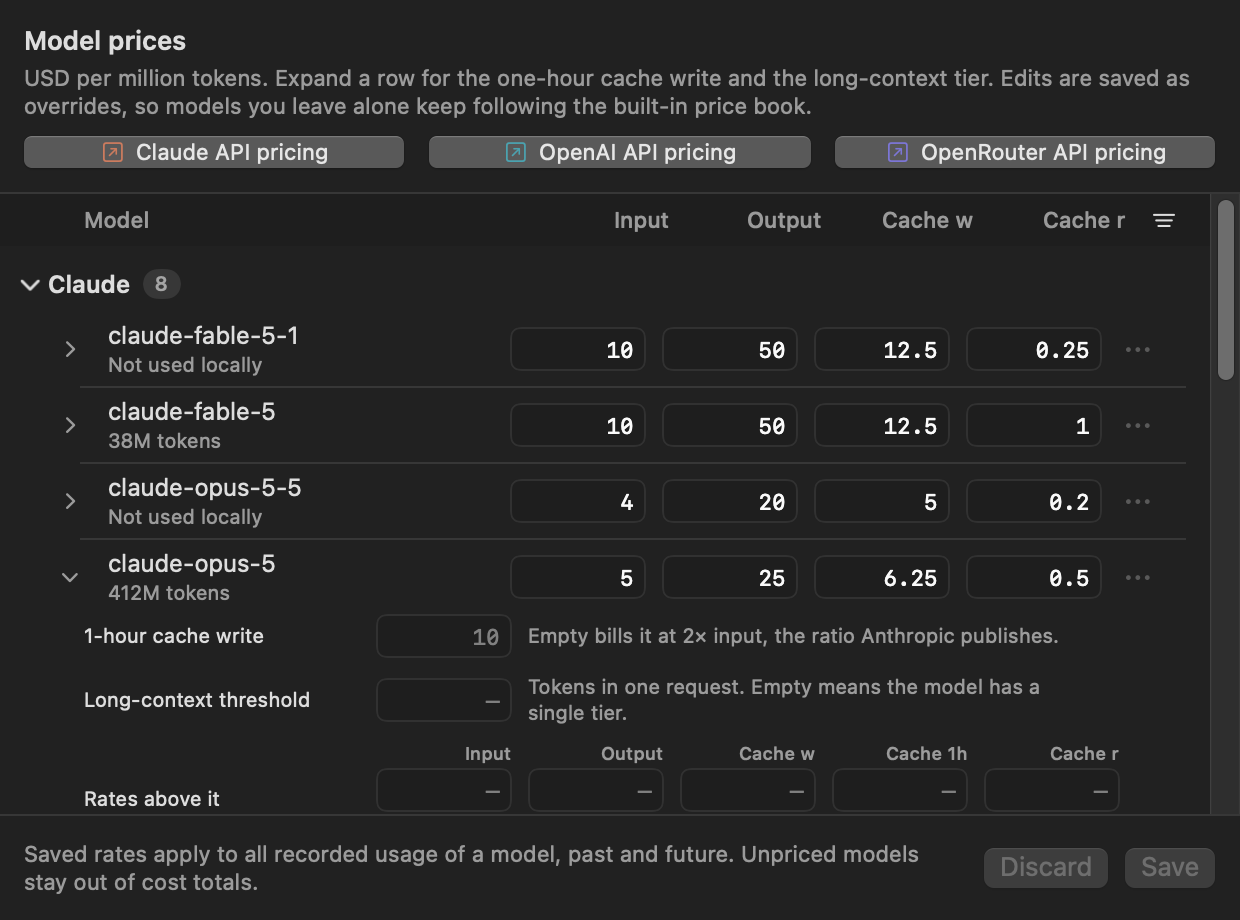
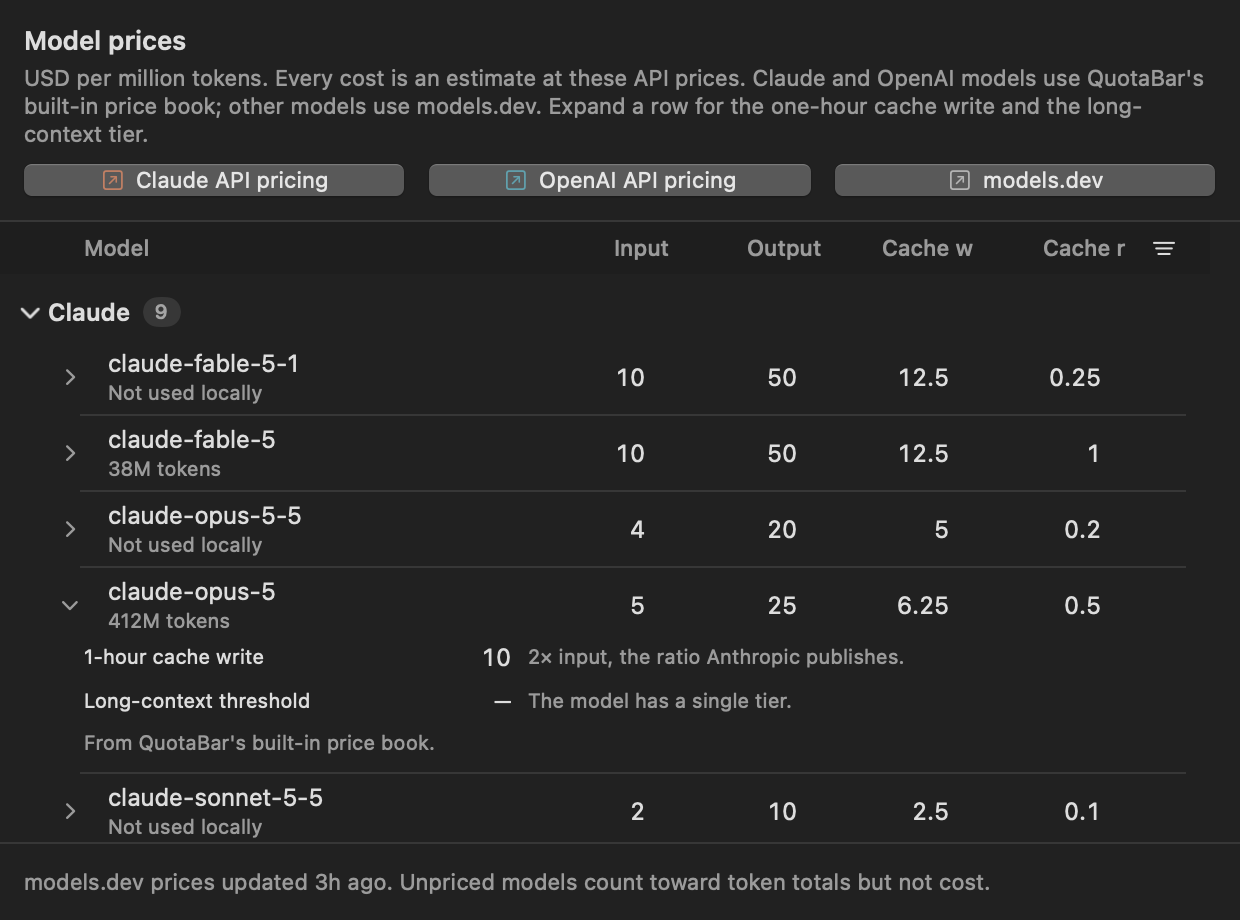
docs(pricing): document models.dev third-party rates and the read-only pricing table
Add ADR 0002, which partly supersedes ADR 0001, and update the glossary,
price book guide, export doc, READMEs, and settings screenshots.

diff --git a/README.md b/README.md
@@ -11,7 +11,7 @@
 
 Check Codex and Claude quota, reset times, local token usage, and estimated API cost from the macOS menu bar.
 
-[Install](#install) · [First launch](#first-launch) · [Quota](#how-quota-tracking-works) · [Cost](#how-cost-tracking-works) · [Reports](#exporting-a-usage-report) · [Pricing](#editing-model-prices) · [Development](#build-and-develop) · [Troubleshooting](#troubleshooting)
+[Install](#install) · [First launch](#first-launch) · [Quota](#how-quota-tracking-works) · [Cost](#how-cost-tracking-works) · [Reports](#exporting-a-usage-report) · [Pricing](#model-prices) · [Development](#build-and-develop) · [Troubleshooting](#troubleshooting)
 
 Screenshots use sample data. The app is in English; exported reports support Chinese and English. View the card in [dark](docs/images/interactions/main-dark.png) or [light](docs/images/interactions/main-light.png) appearance.
 
@@ -19,7 +19,7 @@ Screenshots use sample data. The app is in English; exported reports support Chi
 
 - Track session and weekly quota, reset times, usage pace, and Codex credits. Failed refreshes keep the last good reading.
 - View tokens and estimated API cost by day and model. Include OpenCode and Pi Agent OAuth usage that matches your Codex account.
-- Estimate Standard, Fast, and long-context costs with the bundled price book. Edit Standard rates in Settings.
+- Estimate Standard, Fast, and long-context costs: Claude and OpenAI models from the bundled price book, other models such as DeepSeek or GLM from models.dev.
 - Export the last 7 or 30 days of saved usage as an offline HTML report with Chinese and English views.
 
 ## Install
@@ -78,7 +78,7 @@ codex login
 claude
 ```
 
-Open QuotaBar, click its menu bar icon, and select Claude or Codex. Open [Settings](docs/images/settings-general.png) to choose a refresh interval and the provider the menu bar shows, or to [edit model prices](#editing-model-prices).
+Open QuotaBar, click its menu bar icon, and select Claude or Codex. Open [Settings](docs/images/settings-general.png) to choose a refresh interval, the provider the menu bar shows, and whether models.dev prices other models, or to [see model prices](#model-prices).
 
 If a provider is not signed in, choose **Copy command**, run it in Terminal, then return and choose **Check sign-in**.
 
@@ -138,7 +138,7 @@ The icon is Material Design Icons' `robot-excited`. The card scrolls when needed
 | ⌘1 / ⌘2 | Show Claude / Codex |
 | ⌘R | Refresh or check sign-in, when available |
 | ⌘, | Open settings |
-| ⌘Q | Quit, with a prompt for unsaved price edits |
+| ⌘Q | Quit |
 | Esc | Close the card |
 
 ## How cost tracking works
@@ -160,7 +160,7 @@ The chart distinguishes zero usage from missing data:
 | **—**, **Unpriced** | Usage is recorded, but no rate applies. Cost view shows a dashed stub. |
 | **Partial estimate** | The amount includes priced usage only; unpriced usage is excluded. |
 
-For missing Standard rates, use **Settings → Pricing**. Fast usage needs a multiplier in the bundled price book and cannot be priced with a manual override.
+**Settings → Pricing** lists every model with its rates and where they come from. Unpriced models are local or free models, new Claude or OpenAI models the price book does not list yet, and Fast usage of models without a Fast multiplier.
 
 ### Data sources
 
@@ -190,12 +190,13 @@ Scanner upgrades preserve recorded history instead of rebuilding it from source 
 
 ### Pricing rules
 
-- Standard usage uses your saved override, if any. Otherwise, it uses the bundled [price book](Sources/QuotaBarCore/Resources/Pricing/price-book.json).
-- The price book stores rates in dated periods. Each day's usage uses that day's rates. An override replaces Standard rates for every recorded day of its model.
-- Fast usage (Codex priority tier and Claude Fast mode) multiplies the price book's rates by that period's Fast multiplier, including cache rates. It ignores overrides. Without a Fast multiplier, usage stays unpriced. Claude usage scanned before QuotaBar recorded Fast mode stays Standard.
+- Every cost is an estimate at API list prices.
+- Claude and OpenAI models use the bundled [price book](Sources/QuotaBarCore/Resources/Pricing/price-book.json), which stores rates in dated periods. Each day's usage uses that day's rates.
+- Other models use rates from [models.dev](https://models.dev): the model maker's own price when it lists one, otherwise the middle price across providers. QuotaBar keeps them in a local cache and refreshes it at most once a day. When a price changes, earlier days keep the old rates. Models listed only for free stay unpriced. Turn this off in **Settings → General**.
+- Fast usage (Codex priority tier and Claude Fast mode) multiplies the price book's rates by that period's Fast multiplier, including cache rates. Without a Fast multiplier, and for models priced from models.dev, Fast usage stays unpriced. Claude usage scanned before QuotaBar recorded Fast mode stays Standard.
 - Long-context rates apply when a request's input and cache tokens exceed its threshold. QuotaBar records that classification during scanning; later threshold changes do not reclassify saved usage.
 
-Provider billing rules, cache accounting, and price changes can make estimates differ from an invoice. See [Maintaining the price book](docs/pricing.md) to update bundled rates.
+Provider billing rules, cache accounting, and price changes can make estimates differ from an invoice. See [Maintaining the price book](docs/pricing.md) to update bundled rates and for how models.dev rates are chosen.
 
 ## Exporting a usage report
 
@@ -210,35 +211,19 @@ Provider billing rules, cache accounting, and price changes can make estimates d
 
 The report is a single offline HTML file with a Chinese/English switch. It includes saved Codex and Claude usage, plus eligible OpenCode and Pi Agent usage, for the selected period. Charts and expandable tables show daily usage, cost by model, and token and cache composition.
 
-Export reads saved data without refreshing quota, rescanning logs, or making network requests. It uses the same pricing rules as the card and marks unpriced usage. Totals include cache costs; the report lists cache token counts without a separate cache cost.
+Export reads saved data and cached rates without refreshing quota, rescanning logs, or making network requests. It uses the same pricing rules as the card and marks unpriced usage. Totals include cache costs; the report lists cache token counts without a separate cache cost.
 
 The file includes the period, capture time, timezone, sources, models, token counts, and estimated costs. It excludes prompts, responses, reasoning text, credentials, and account IDs. See [Usage report export](docs/usage-report-export.md) for the full data format and checks.
 
-## Editing model prices
+## Model prices
 
-Open **Settings → Pricing** to override Standard rates in USD per million tokens. Expand a model row for one-hour cache write rates, the long-context threshold, and rates above it.
-
-The table lists supported API models and unpriced models found locally. Click a column heading to sort; reset the order to restore the API model list and sort **Others** by usage.
+Open **Settings → Pricing** to see the rates every estimate uses, in USD per million tokens. Rows are grouped into **Claude**, **Codex**, and **Others**; the first two come from the price book, and **Others** lists every other model found locally, priced from models.dev or unpriced. Expand a row for the one-hour cache write rate, the long-context threshold, and the rates above it. Click a column heading to sort; reset the order to restore the API model list and sort **Others** by usage.
 
 <p align="center">
-  <img src="docs/images/settings-pricing.png" width="620" alt="Pricing settings with editable rates, expanded long-context fields, and per-model action menus">
+  <img src="docs/images/settings-pricing.png" width="620" alt="Read-only pricing table grouped by Claude, Codex, and Others, with one row expanded to show its long-context rates">
 </p>
 
-- Rates must be finite and nonnegative. A long-context threshold must be a positive whole token count. You must set it before saving any rates above the threshold. Invalid fields disable **Save**.
-- **Save** shows progress and its result. Drafts survive failed saves, tab switches, and closing Settings while the app is running. **Discard** restores the last saved rates.
-- To remove an override, choose **Restore default rate** or **Clear custom rate** in the model's **…** menu, then save.
-- Quitting with a valid draft offers **Save**, **Discard**, or **Cancel**. Invalid drafts must be corrected before saving.
-
-<details>
-<summary>Invalid price example</summary>
-
-<p align="center">
-  <img src="docs/images/interactions/pricing-invalid.png" width="620" alt="A nonnumeric input rate with an inline error, an error summary, and Save disabled">
-</p>
-
-</details>
-
-Saving reprices the model's recorded Standard usage, including previously unpriced usage. Restoring the default returns it to the price book's dated rates. Fast usage keeps using the price book. Threshold changes affect only newly scanned requests.
+Rates cannot be edited. To change a Claude or OpenAI rate, update the price book (see [Maintaining the price book](docs/pricing.md)). Earlier versions saved custom rates in `pricing-overrides.json`; this version deletes that file on launch.
 
 ## Privacy and network access
 
@@ -251,14 +236,14 @@ QuotaBar uses timestamps, models, token counts, record IDs, and account IDs need
 
 ```text
 ~/Library/Application Support/QuotaBar/usage-history.json
-~/Library/Application Support/QuotaBar/pricing-overrides.json
+~/Library/Application Support/QuotaBar/third-party-rates.json
 ~/Library/Application Support/QuotaBar/cost-usage/cost-usage.sqlite
 ~/Library/Preferences/com.quotabar.app.plist
 ```
 
 </details>
 
-Codex quota requests use the `chatgpt_base_url` in `$CODEX_HOME/config.toml`, if set, or the default ChatGPT endpoint. QuotaBar also contacts `auth.openai.com` to refresh Codex tokens, and `api.anthropic.com` for Claude quota. Model prices ship with the app and are not fetched. It does not send local session records to these services.
+Codex quota requests use the `chatgpt_base_url` in `$CODEX_HOME/config.toml`, if set, or the default ChatGPT endpoint. QuotaBar also contacts `auth.openai.com` to refresh Codex tokens, and `api.anthropic.com` for Claude quota. Claude and OpenAI prices ship with the app. While **Price other models with models.dev** is on, QuotaBar downloads `https://models.dev/api.json` at most once a day; the request carries no usage or account data. It does not send local session records to these services.
 
 ## Build and develop
 
@@ -337,9 +322,8 @@ The workflow runs tests, packages an `arm64` ZIP, and verifies its signature, ve
 | Provider is not signed in | Copy the command in the card, complete the CLI login, then choose **Check sign-in**. Use `make probe` for the raw error. |
 | Data is stale or refresh returns HTTP 429 | Read the warning above the saved quota. Wait for the retry countdown, then retry; a server limit may last longer than one minute. |
 | Local scan failed | Read the local usage error and choose **Retry local scan**. Confirm the CLI writes session logs to the paths above. |
-| Cost shows Unpriced or Partial estimate | Add missing Standard rates in **Settings → Pricing**. Fast usage needs a multiplier in the bundled price book. |
+| Cost shows Unpriced or Partial estimate | Check the model in **Settings → Pricing**. Local, free, and Fast third-party usage stays unpriced. For other models, confirm models.dev pricing is on in **Settings → General** and that models.dev lists the model. |
 | A date shows Not scanned yet | Wait for the local scan to finish. This means the date is not covered yet, rather than zero usage. |
-| Price changes cannot be saved | Correct the marked fields. If saving failed, the draft remains available to retry or discard. |
 | OpenCode usage is missing | Confirm OpenCode uses `openai` OAuth with the same account as Codex. Check **Settings → Pricing** for database or authentication errors. |
 | Pi Agent usage is missing | Confirm Pi Agent uses `/login openai-codex` with the same account as Codex. Check **Settings → Pricing** for session or authentication errors. |
 

diff --git a/docs/adr/0002-price-third-party-models-from-models-dev.md b/docs/adr/0002-price-third-party-models-from-models-dev.md
@@ -1,0 +1,40 @@
+# Price third-party models from models.dev and drop overrides
+
+This partly supersedes [ADR 0001](0001-derive-cost-from-a-dated-price-book.md). Cost is still derived from stored tokens whenever usage is read, and the price book still prices Claude and OpenAI models. What changes is how other models get a price, and the user's overrides go away.
+
+Codex and Claude Code are often pointed at other vendors' models, such as DeepSeek, GLM, Kimi, or MiMo. On one real database those models made up more than 1.3B tokens, and every one of them was unpriced. The book cannot keep up with that many vendors by hand, and overrides only helped users who typed the rates in themselves.
+
+## Decision
+
+- **Every cost is an estimate at API list prices.** No source is treated as authoritative. The book is not "exact" and models.dev is not "approximate"; they just cover different models.
+- **The price book covers Claude and OpenAI models only, kept by hand.** A model the book lists is priced from the book on every day, even when models.dev also lists it. models.dev never prices a name that contains `claude` or `gpt-`, starts with `chatgpt-`, `codex-`, `o<digit>`, or a vendor prefix such as `openai-` or `us.anthropic.`, or whose `canonical_model_id` belongs to `openai` or `anthropic`. This holds even before the book lists a new model of theirs.
+- **Every other model is priced from models.dev**, through a local cache in `~/Library/Application Support/QuotaBar/third-party-rates.json`:
+  - The app downloads `models.dev/api.json` at most once a day, alongside a cost refresh, without holding the scan up. After a failed download it waits an hour before trying again, and the cache stays as it was.
+  - models.dev lists a model under every provider that serves it. When the model's maker has its own listing, which `canonical_model_id` names, the maker's price is used. Otherwise the middle price of all listings is used, so one reseller's discount or markup does not set the estimate.
+  - A model listed only at zero is left out, so its usage stays unpriced rather than costing nothing. Local and free models therefore stay unpriced.
+  - Rates above 200K tokens (`context_over_200k`) become the Long-context tier. models.dev's other context tiers are not read. Because 200K is the only threshold models.dev describes, a third-party request is classified against it at scan time whether or not its rates have been downloaded; a model without long-context rates bills that tier at its base rates.
+  - models.dev has no Fast tier, so Fast usage of a third-party model stays unpriced.
+- **History comes from the cache.** models.dev publishes today's rates only. When a fetch sees a model's rates change, the cache opens a new period starting that day. The rates first seen cover every earlier day, and a model models.dev stops listing keeps its last rates. This is less precise than the book's periods, which is acceptable for an estimate.
+- **The download can be turned off.** "Price other models with models.dev" in Settings → General is on by default. Turning it off makes third-party usage unpriced and stops the download. It keeps the cache.
+- **Overrides are removed.** The pricing settings become a read-only table showing each model's rates and where they come from. On launch the app deletes the `pricing-overrides.json` an earlier version wrote.
+- **Agent-reported cost is not read.** OpenCode and Pi Agent store a cost per message, but QuotaBar only records their OpenAI usage, which the book already prices, and that cost is zero under OAuth subscriptions. Reading third-party usage from those agents would need its own decision about which provider it counts toward.
+
+## Why ADR 0001's objections no longer apply
+
+- **The broken parser.** ADR 0001's catalog expected a `providers` key that `api.json` does not have. The new parser reads the top-level provider map and is tested against a fixture with the real shape.
+- **Reseller prices.** Preferring the maker's own listing, and otherwise taking the middle price, keeps one reseller from setting the price.
+- **The 200K vs 272K threshold.** That mistake came from letting models.dev price OpenAI models. It no longer prices any Claude or OpenAI model.
+- **An unreviewed source rewriting history.** Costs are still derived at read time, but the cache only ever adds periods. A model's past days keep their rates even when today's fetch disagrees.
+
+## Considered options
+
+- **Keep overrides as a top layer.** Users would still have to find and type in every third-party rate. With models.dev covering those models, overrides mostly added a second way to be wrong. Removing them also removes the editor, its validation, and the quit-time save prompt.
+- **Read agent-reported cost before models.dev.** Agent cost is a good source in principle, but under the current scope it never applies (see above).
+- **Fetch models.dev without a local cache.** Every price change would then reprice all past usage, and the app would have nothing to fall back on offline.
+
+## Consequences
+
+- The app now makes one network request of its own, to `models.dev`, at most once a day while the setting is on.
+- A third-party model's price can change without a release, and a past day keeps whatever rates this machine had seen for it on that day. Two machines can therefore disagree about the same day if they fetched at different times.
+- A usage day before a machine's first fetch is priced at the first rates that machine saw.
+- The Long-context tier of third-party usage is still decided at scan time, but against the fixed 200K threshold, so it does not depend on when rates were fetched. Usage scanned by an earlier version stays in the base tier.

diff --git a/docs/pricing.md b/docs/pricing.md
@@ -1,6 +1,6 @@
 # Maintaining the price book
 
-Every cost QuotaBar shows comes from [`price-book.json`](../Sources/QuotaBarCore/Resources/Pricing/price-book.json) plus whatever the user has overridden in **Settings → Pricing**. Cost is computed from stored tokens each time it is read, so editing the book reprices recorded usage as soon as the new build runs. [ADR 0001](adr/0001-derive-cost-from-a-dated-price-book.md) explains why.
+Claude and OpenAI models are priced from [`price-book.json`](../Sources/QuotaBarCore/Resources/Pricing/price-book.json), kept by hand. Every other model is priced from models.dev through a local cache (see [Third-party models](#third-party-models)). Cost is computed from stored tokens each time it is read, so editing the book reprices recorded usage as soon as the new build runs. [ADR 0001](adr/0001-derive-cost-from-a-dated-price-book.md) and [ADR 0002](adr/0002-price-third-party-models-from-models-dev.md) explain why.
 
 ## Layout
 
@@ -32,7 +32,7 @@ Every cost QuotaBar shows comes from [`price-book.json`](../Sources/QuotaBarCore
 }
 ```
 
-Providers are `codex` (OpenAI models, including OpenCode and Pi Agent usage) and `claude`.
+Providers are `codex` (OpenAI models, including OpenCode and Pi Agent usage) and `claude`. Do not add other vendors' models here: models.dev prices them, and a model the book lists is never priced from models.dev.
 
 A model has these keys:
 
@@ -45,7 +45,7 @@ A model has these keys:
 A period has these keys:
 
 - `from` is the first local day (`yyyy-MM-dd`) the rates apply to. The first period has no `from` and covers every earlier day. Later periods need one, in ascending order.
-- `rates` are USD per million tokens and use the same keys as the user override file. `input` and `output` are required. `cacheWrite` is the five-minute rate. Leave `cacheWrite1h` out when it is 2x input, which is Anthropic's published ratio. Rates ending in `Above` need `thresholdTokens`. The override file follows the same rules, and an override entry that breaks one is ignored.
+- `rates` are USD per million tokens. `input` and `output` are required. `cacheWrite` is the five-minute rate. Leave `cacheWrite1h` out when it is 2x input, which is Anthropic's published ratio. Rates ending in `Above` need `thresholdTokens`. The third-party rates cache uses the same keys and rules.
 - `fastMultiplier` prices Fast usage as that multiple of every rate in the period, cache rates included. It covers Codex's priority tier and Claude's Fast mode (`usage.speed: "fast"` in Claude Code transcripts). Leave it out and Fast usage of the model stays unpriced. Use `1` for a model that accepts Fast requests but bills them at Standard rates, such as Claude Opus 4.6.
 
 ## Common changes
@@ -67,3 +67,16 @@ make test
 ```
 
 `PriceBookTests` loads the bundled book and fails on unknown keys, missing rates, unordered periods, duplicate names, or a listed model with no price today. It also pins the published rates of the current models on 2026-09-25, so editing an old period fails; a new period does not. It prints a note when a provider was last checked more than 45 days ago.
+
+## Third-party models
+
+Models the book does not list, such as DeepSeek, GLM, or Kimi used through Codex or Claude Code, are priced from [models.dev](https://models.dev). Nothing about them is maintained in this repository.
+
+- The app downloads `https://models.dev/api.json` at most once a day, alongside a cost refresh, and folds it into `~/Library/Application Support/QuotaBar/third-party-rates.json`. A failed download is retried after an hour and leaves the cache alone.
+- For each model it uses the maker's own listing when `canonical_model_id` names one, otherwise the middle price across every provider that lists it. A model listed only at zero stays unpriced.
+- `context_over_200k` becomes a 200K long-context tier. Third-party requests are classified against 200K at scan time even before their rates are downloaded. There is no Fast tier.
+- A model whose rates changed since the last fetch gets a new period starting that day, so earlier days keep their rates.
+- Names containing `claude` or `gpt-`, starting with `chatgpt-`, `codex-`, `o<digit>`, or a vendor prefix such as `openai-` or `us.anthropic.`, and models whose maker is OpenAI or Anthropic, are never priced from models.dev. A new Claude or OpenAI model stays unpriced until the book lists it.
+- **Settings → General → Price other models with models.dev** turns this off. Third-party usage is then unpriced and nothing is downloaded.
+
+`ThirdPartyRatesTests` covers the parsing, the choice between listings, and the dated cache.

diff --git a/docs/usage-report-export.md b/docs/usage-report-export.md
@@ -11,7 +11,7 @@ QuotaBar exports a bilingual usage snapshot as one HTML file. The file contains 
 
 QuotaBar checks the selected period before opening the Save panel. If it finds no saved usage, it shows **No saved usage in this period** and does not create a file. A successful export offers **Open Report** and **Show in Finder**. Cancelling the Save panel leaves the destination unchanged, and a failed read or write can be retried.
 
-The settings tabs remain separate. While Settings is active, ⌘1 opens **General**, ⌘2 opens **Pricing**, and ⌘3 opens **Export**. The menu card keeps its existing ⌘1 and ⌘2 shortcuts for Codex and Claude. Adding the Export tab does not change the General or Pricing workflows, including unsaved Pricing drafts.
+The settings tabs remain separate. While Settings is active, ⌘1 opens **General**, ⌘2 opens **Pricing**, and ⌘3 opens **Export**. The menu card keeps its existing ⌘1 and ⌘2 shortcuts for Codex and Claude. Adding the Export tab does not change the General or Pricing workflows.
 
 ## What the report shows
 
@@ -34,11 +34,11 @@ The export does not contain prompts, responses, reasoning text, credentials, acc
 
 The reader includes every eligible row already stored for Codex and Claude. It also includes OpenCode and Pi Agent rows that the scanner marked as eligible after applying the OAuth account-matching rules described in the root README. Export does not scan the original session files or reassess eligibility.
 
-The export uses the same pricing rules as the menu. Standard usage uses the price book's rates for each recorded day, unless a manual override replaces them. An override applies to every recorded day of its model. Fast usage, from Codex's priority tier or Claude's Fast mode, ignores overrides and uses the price book's rates and Fast multiplier for that day. Without a Fast multiplier, it stays unpriced. The result remains an estimate and may differ from the provider's bill.
+The export uses the same pricing rules as the menu. Claude and OpenAI models use the price book's rates for each recorded day. Other models use the third-party rates cached from models.dev for that day, unless that setting is off. Fast usage, from Codex's priority tier or Claude's Fast mode, uses the price book's rates and Fast multiplier for that day. Without a Fast multiplier, and for every third-party model, it stays unpriced. The result remains an estimate and may differ from the provider's bill.
 
 Rows without a usable price contribute tokens but no cost. The report labels a fully unpriced total as **Unpriced** and a mixed total as a partial estimate. Cache-read and cache-write costs are part of each cost total, but the report does not break them out as separate USD values. It shows cache token counts instead.
 
-Export only reads SQLite and writes the selected HTML file. It does not refresh quota, scan logs, fetch pricing, invoke a CLI, contact a model, or make any network request.
+Export only reads SQLite and the local third-party rates cache, and writes the selected HTML file. It does not refresh quota, scan logs, download prices, invoke a CLI, contact a model, or make any network request.
 
 ## Implementation
 

diff --git a/GLOSSARY.md b/GLOSSARY.md
@@ -13,29 +13,29 @@ Token usage saved from local sessions, attributed to its Usage source, model, an
 _Avoid_: stored cost, cached cost
 
 **Price book**:
-The list of published model rates that ships with the app, each model's rates split into dated periods.
+The list of Claude and OpenAI model rates that ships with the app, kept by hand, each model's rates split into dated periods.
 _Avoid_: pricing table, catalog, built-in table
+
+**Third-party rates**:
+Rates for every model the price book does not cover, taken from models.dev and kept in a cache on this machine. A model's rates open a new period on the day a fetch first sees them change. Never used for a Claude or OpenAI model.
+_Avoid_: catalog, fallback rates
 
 **Period**:
 A span of days, starting on a given day, during which one set of rates applies to a model.
 _Avoid_: price version, tier
 
-**Override**:
-A rate the user sets for a model in the pricing settings. It replaces the price book's Standard rates on every day. An override that breaks the rules the price book's own rates must follow is ignored, and the price book's rates apply instead.
-_Avoid_: custom price, user price
-
 **Rate card**:
-The price book with the user's overrides laid over it: what every model costs on any given day, and the only place a rate is looked up.
+The price book with the third-party rates beside it: what every model costs on any given day, and the only place a rate is looked up. A model the price book lists is priced by the book alone. Every cost it gives is an estimate at API list prices.
 _Avoid_: pricing overlay, effective pricing
 
 **Unpriced usage**:
-Recorded tokens whose model has no rate on their day. They count toward token totals but not toward cost.
+Recorded tokens whose model has no rate on their day, including models that models.dev lists only for free and all third-party usage while models.dev pricing is off. They count toward token totals but not toward cost.
 _Avoid_: unknown cost, free usage
 
 **Long-context tier**:
-The higher rates a model charges when one request's input and cache tokens exceed its threshold. Whether a request is in the tier is settled when it is scanned, against the rate card's threshold at that moment, and does not change when the threshold later does.
+The higher rates a model charges when one request's input and cache tokens exceed its threshold. Whether a request is in the tier is settled when it is scanned, against the rate card's threshold at that moment, and does not change when the threshold later does. A third-party model's threshold is always 200K tokens, the only tier models.dev describes, so its requests are classified even before its rates are downloaded.
 _Avoid_: above-threshold pricing
 
 **Fast**:
-Codex's priority service tier or Claude's Fast mode, billed as a multiple of the period's Standard rates.
+Codex's priority service tier or Claude's Fast mode, billed as a multiple of the period's Standard rates. Only the price book has Fast multipliers, so Fast usage of a third-party model is unpriced.
 _Avoid_: priority tier

diff --git a/docs/design-implementation.md b/docs/design-implementation.md
@@ -8,7 +8,7 @@ This implementation follows the approved interaction proposal. The original befo
 - Cmd-R dispatches through a validated AppKit application command, Cmd-1 / Cmd-2 switch providers, Cmd-comma opens settings, and Escape closes the popover. Edit commands use the responder chain for normal text editing in settings.
 - Signed-out cards preserve the provider's reason and offer the correct CLI command, copy feedback, and a Check sign-in action. Copying a command does not execute it. Credentials and permission errors retain their separate recovery paths.
 - Refresh failures retain quota readings and show the last successful update near a warning. Server and local cooldowns jointly determine when retry is available. A local usage scan exposes its own progress, failure, and retry.
-- Pricing validates finite nonnegative rates and positive integer thresholds before persistence. Invalid text cannot implicitly remove an override. Restore defaults and Discard are explicit draft operations. Saving prevents duplicate writes; errors preserve edits. Table reloads cannot replace a draft created while their asynchronous work was pending. Quitting protects unsaved edits, with Cancel as the default when an invalid draft cannot be saved.
+- Pricing is a read-only table of the rates every estimate uses, grouped into Claude, Codex, and Others, with each row naming its source: the price book or models.dev ([ADR 0002](adr/0002-price-third-party-models-from-models-dev.md)). It replaced an override editor with validation, drafts, and a quit-time save prompt.
 - Local usage has a visible Tokens / Cost selector and ten calendar date columns. Dates support whole-column pointer targets and keyboard selection. Model details are collapsed as a group; complete labels remain available to accessibility. Unit changes and refreshes preserve a still-valid date selection. Unpriced and partially priced usage have distinct labels; dates not covered by the last completed scan do not claim zero usage.
 - Quota headlines immediately display authoritative values. Reset feedback lasts about 0.82 seconds and respects Reduce Motion. Pace calculations are available through Usage pace details; duplicate Top model text is removed. Credits follow local usage.
 

diff --git a/docs/adr/0001-derive-cost-from-a-dated-price-book.md b/docs/adr/0001-derive-cost-from-a-dated-price-book.md
@@ -1,5 +1,7 @@
 # Derive cost from a dated price book
 
+> Partly superseded by [ADR 0002](0002-price-third-party-models-from-models-dev.md): user overrides are gone, and models.dev prices the models the book does not cover, through a local cache. Deriving cost at read time and the book's dated periods still stand.
+
 QuotaBar stores only token counts and computes cost each time usage is read. The rates come from a bundled price book, `Sources/QuotaBarCore/Resources/Pricing/price-book.json`, where every model lists its rates in dated periods. User overrides sit on top and apply to every day.
 
 Up to 1.0.7, each row's cost was computed at scan time and frozen in SQLite, and a models.dev catalog fetched at runtime sat between the overrides and a Swift rate table. Two problems made us drop both:
